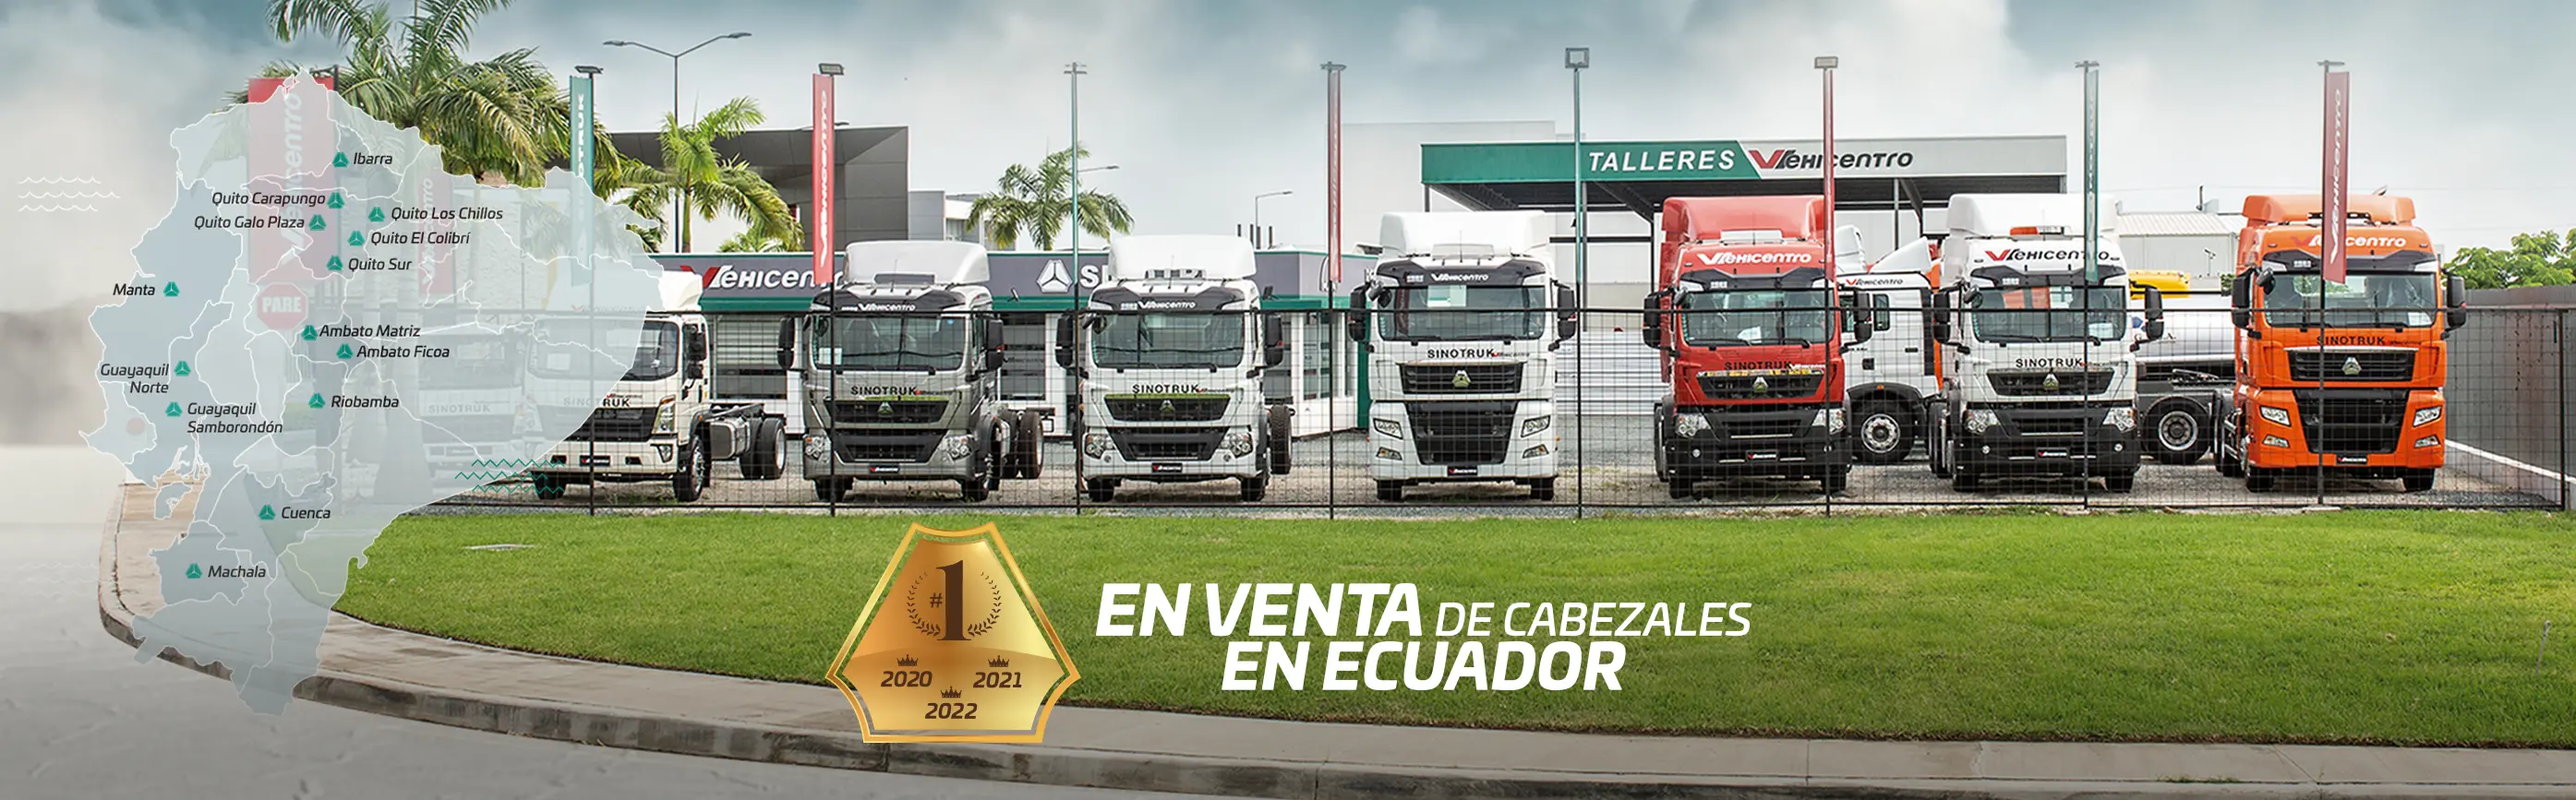
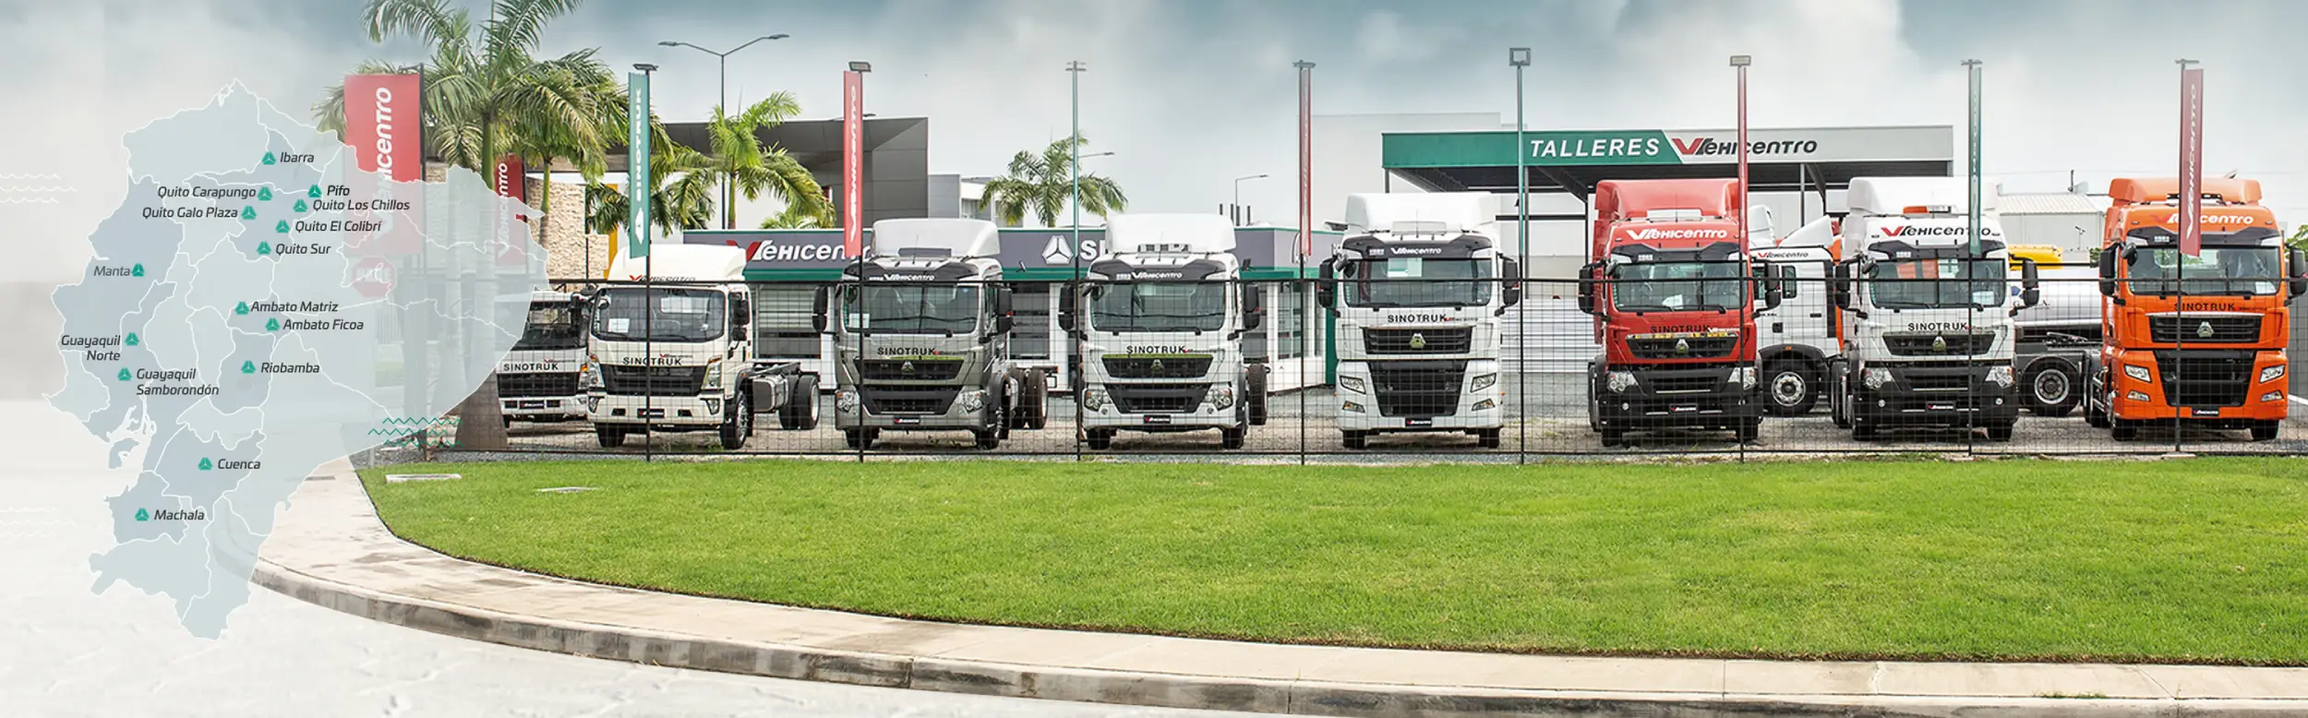
pifo

diff --git a/src/pages/Concesionarios.js b/src/pages/Concesionarios.js
@@ -69,6 +69,14 @@ function Concesionarios() {
       url: "https://goo.gl/maps/uhWzLJFXVygm1TSt9",
       img: urlMedia + "VEHI-1.jpg",
       alt: ""
+    }, {
+      nombre: "QUITO, PIFO",
+      descripcion: "Punto de Venta y Repuestos",
+      telefono: "032-994740 | 0992048229",
+      direccion: "Av. Interoceánica Km 8 (Vía Aeropuerto).",
+      url: "https://goo.gl/maps/LTqZkCCed9DpdY949",
+      img: urlMedia + "/contactanos/pifo.webp",
+      alt: ""
     }]
   }, {
     id: "Guayaquil",
